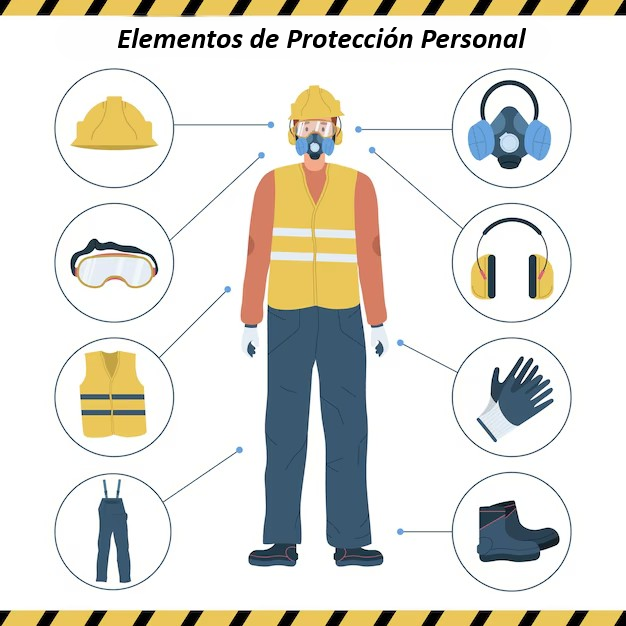
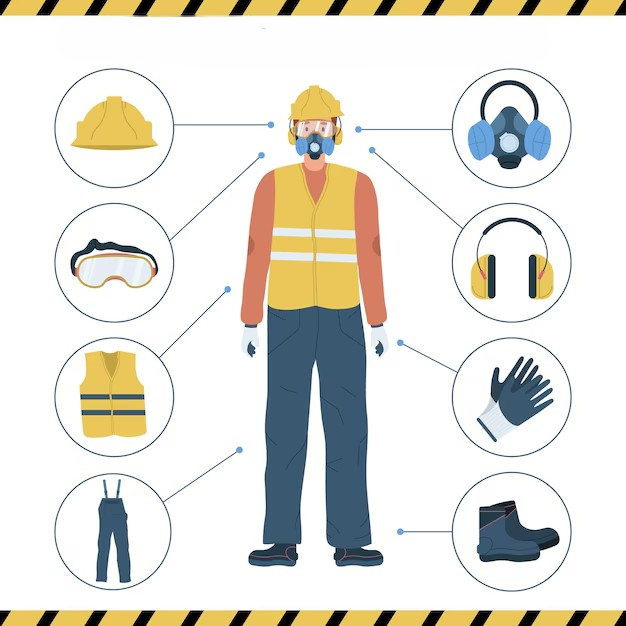
EPP section improvements

Changed region(s): [[0.1821, 0.0304, 0.8498, 0.0911]]

diff --git a/src/components/PersonalProtectionSection.tsx b/src/components/PersonalProtectionSection.tsx
@@ -10,14 +10,15 @@ interface Category {
 }
 
 const categories: Category[] = [
-  { id: 1, name: 'Cascos', area: 'head', top: '9%', left: '45%' },
-  { id: 2, name: 'Guantes', area: 'hands', top: '50%', left: '50%' },
-  { id: 3, name: 'Chalecos', area: 'torso', top: '30%', left: '45%' },
-  { id: 4, name: 'Botas', area: 'feet', top: '80%', left: '40%' },
-  { id: 5, name: 'Protección Ocular', area: 'head', top: '14%', left: '45%' },
-  { id: 6, name: 'Protección Respiratoria', area: 'head', top: '18%', left: '45%' },
-  { id: 7, name: 'Protección Auditiva', area: 'head', top: '15%', left: '50%' },
-  { id: 8, name: 'Protección Facial', area: 'head', top: '14%', left: '40%' },
+  { id: 1, name: 'Cascos', area: 'head', top: '17%', left: '18%' },
+  { id: 2, name: 'Guantes', area: 'hands', top: '62%', left: '82%' },
+  { id: 3, name: 'Chalecos', area: 'torso', top: '62%', left: '18%' },
+  { id: 4, name: 'Botas', area: 'feet', top: '85%', left: '82%' },
+  { id: 5, name: 'Protección Ocular', area: 'head', top: '35%', left: '18%' },
+  { id: 6, name: 'Protección Respiratoria', area: 'head', top: '17%', left: '82%' },
+  { id: 7, name: 'Protección Auditiva', area: 'head', top: '40%', left: '82%' },
+  { id: 8, name: 'Protección Facial', area: 'head', top: '44%', left: '18%' },
+  { id: 9, name: 'Indumentaria', area: 'body', top: '84%', left: '18%' },
 ];
 
 const PersonalProtectionSection = () => {
@@ -26,19 +27,19 @@ const PersonalProtectionSection = () => {
   return (
     <section className="w-3/5 bg-gradient-to-b from-gray-100 to-gray-50 py-8">
       <h2 className="text-2xl font-bold text-gray-800 text-center mb-4">
-        Equipos de Protección Personal
+        Elementos de Protección Personal
       </h2>
       <div className="image-container relative max-w-[800px] mx-auto">
         <img 
-          src="/Public/mameluco.jpg" 
-          alt="Figura Humana" 
+          src="/Public/EPP2.png" 
+          alt="Figura Humana con Elementos de Protección Personal" 
           className="w-full" 
-          style={{ marginTop: '-2rem' }} // Ajusta este valor según necesites
+          style={{ marginTop: '-2rem' }}
         />
         {categories.map((category) => (
           <div
             key={category.id}
-            className="absolute w-10 h-10 bg-blue-500 opacity-50 cursor-pointer hotspot"
+            className="absolute w-[85px] h-[85px] bg-blue-500 opacity-15 cursor-pointer hotspot"
             style={{ top: category.top, left: category.left }}
             onMouseEnter={() => setHoveredCategory(category)}
             onMouseLeave={() => setHoveredCategory(null)}

diff --git a/src/components/PersonalProtectionSection.css b/src/components/PersonalProtectionSection.css
@@ -24,12 +24,14 @@
   position: absolute;
   border-radius: 50%;
   cursor: pointer;
-    transition: background-color 0.2s ease;
+  transition: background-color 0.2s ease;
+  transform: translate(-50%, -50%); /* Centra el punto respecto a sus coordenadas */
 }
 
-  .hotspot:hover{
-    background-color: rgba(0, 0, 255, 0.4);
-  }
+.hotspot:hover {
+  background-color: rgba(59, 130, 246, 0.7); /* Un azul más visible al hover */
+  transform: translate(-50%, -50%) scale(1.1); /* Efecto de escala al hover */
+}
   
   .tooltip {
     position: absolute;
